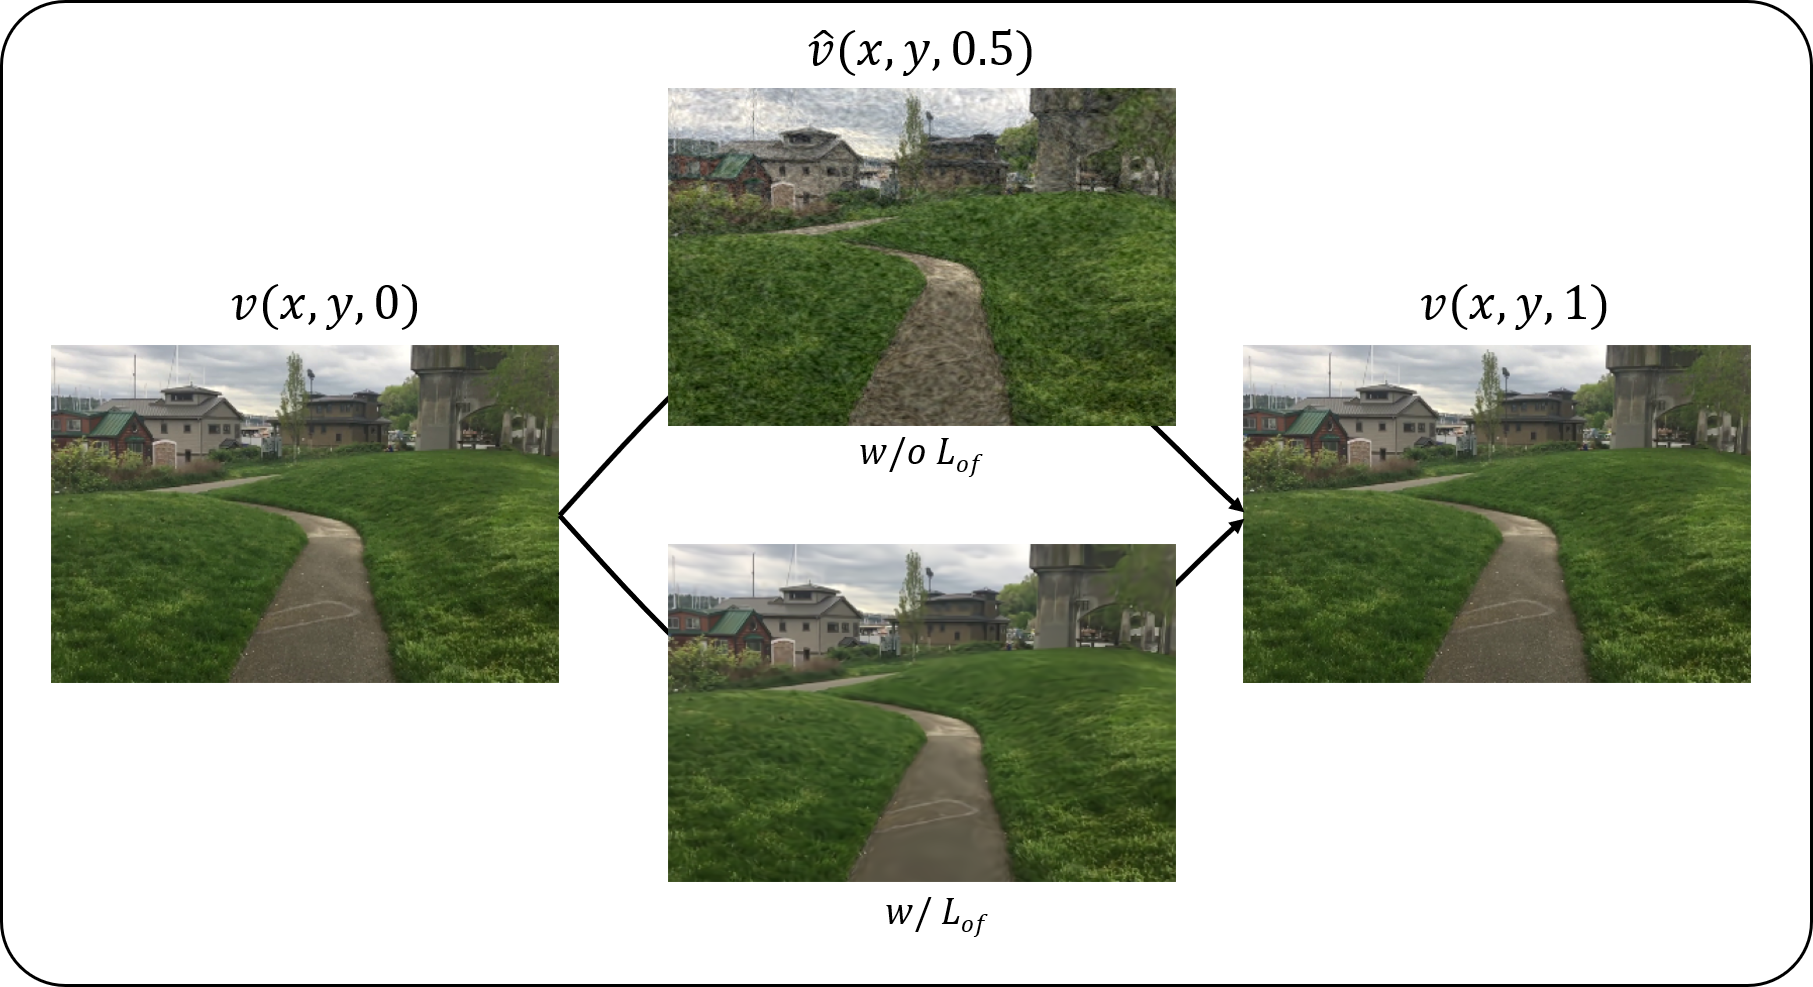
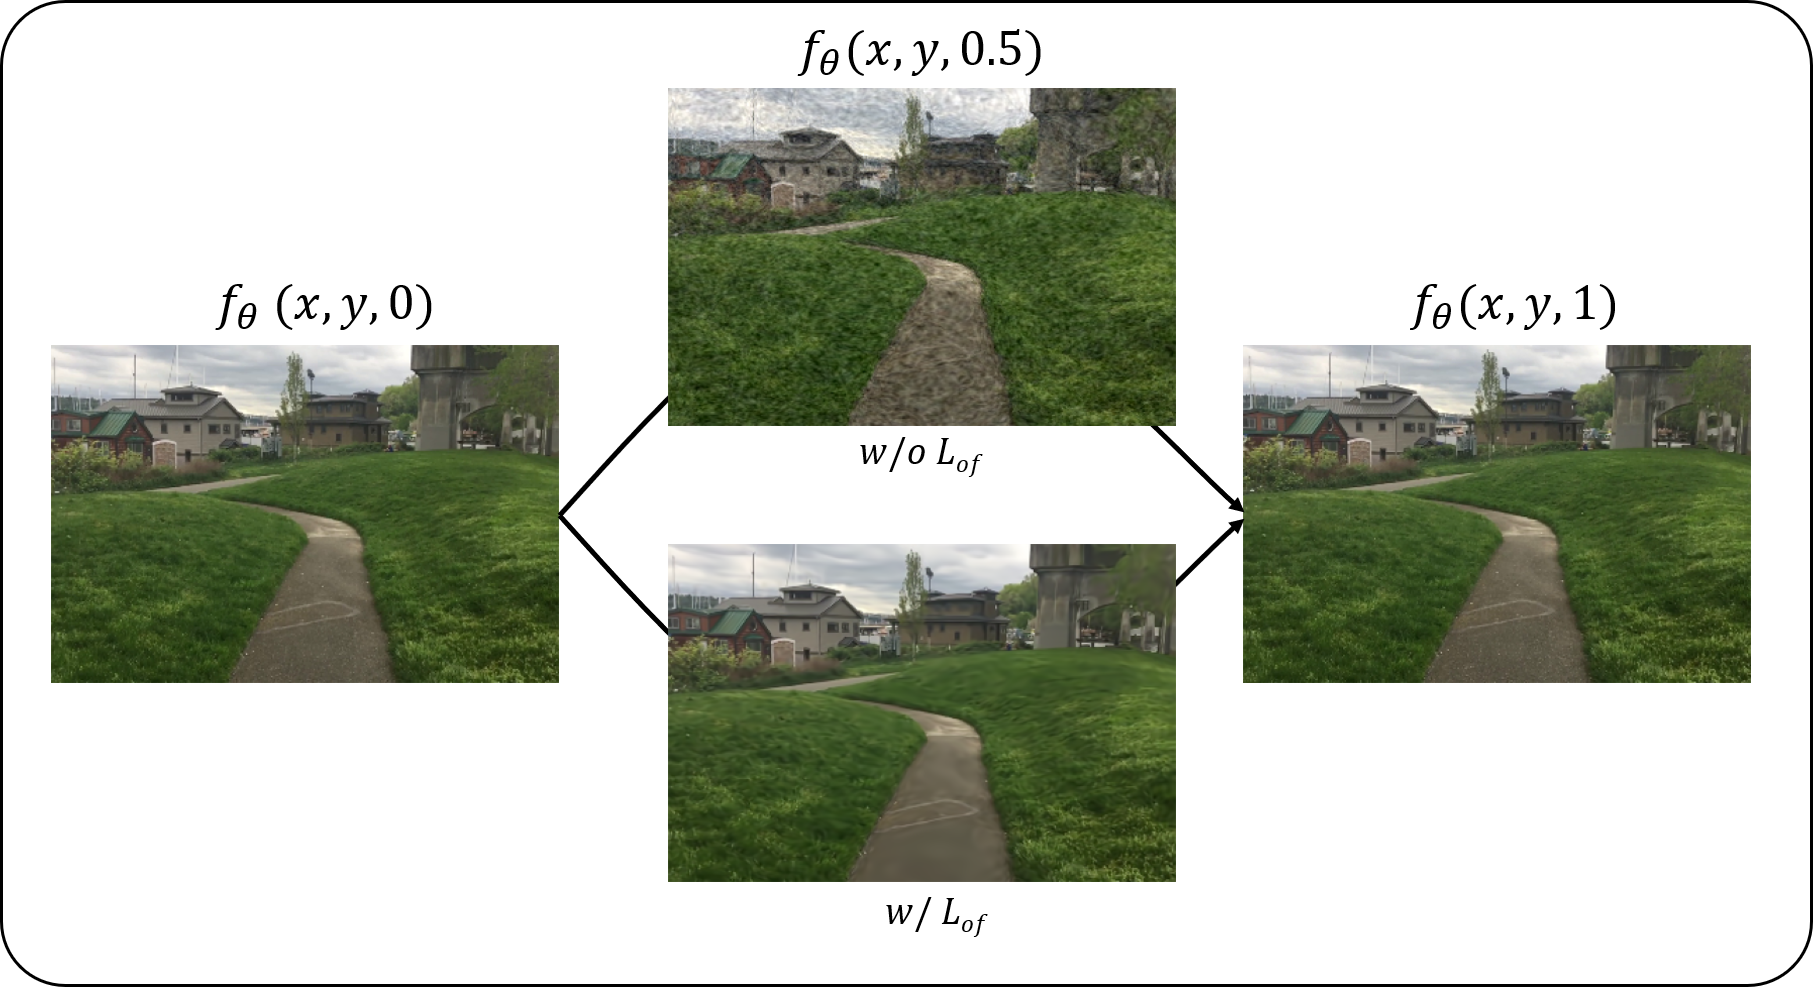
figures fixed

Changed region(s): [[0.4324, 0.0304, 0.5869, 0.0912], [0.1236, 0.2736, 0.2471, 0.3343], [0.7722, 0.2736, 0.8958, 0.3343]]

diff --git a/neurips_2022.tex b/neurips_2022.tex
@@ -645,7 +645,7 @@ Do qualitative analysis
 \begin{subfigure}{0.2\textwidth}
 	\centering
     \includegraphics[width=1\linewidth]{nd_scene/Skating_out.jpg}
-    \caption{$\hat{v}(x,y,0.5)$}
+    \caption{$f_{\theta}(x,y,0.5)$}
 \end{subfigure}%
 \begin{subfigure}{0.2\textwidth}
 	\centering
